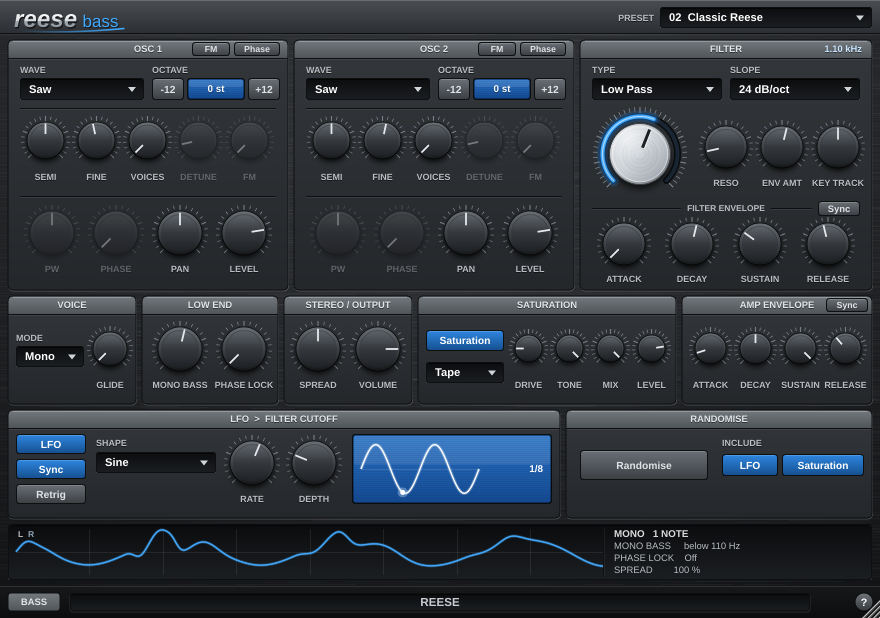
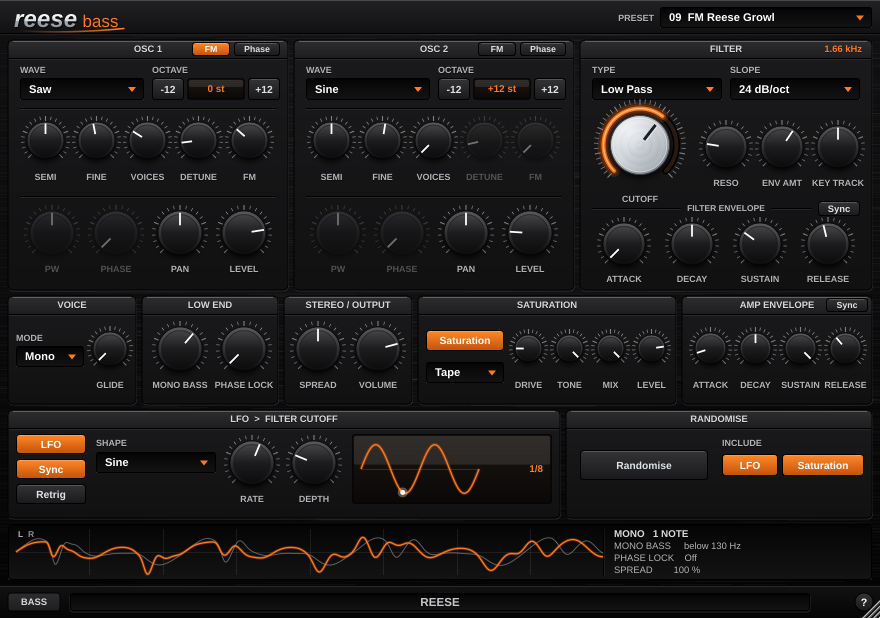
Restyle the GUI with the LeadVerb colour theme (black + orange)
Colours only; layout, sizes, fonts, controls, parameters and DSP are
unchanged and everything stays procedurally drawn.
- One palette in VirusColours (LeadVerb values): blue / blueGlow
  replaced by accent / accentGlow / accentLight, plus named fixed shades
  (button, popup, tooltip, window, top strip, bottom bar).
- Every hard-coded colour in the drawing code uses a palette name,
  except the chrome wordmark and chrome dial, which stay as they were.
- Orange lit buttons, combo arrows, knob value arcs and hover values;
  black small knobs with white indicators; black-glass LCDs with light
  grey names and orange values; orange LFO trace and scope (R in grey).

Claude-Session: https://claude.ai/code/session_01HY2UoEgoNZWNEqy4P7RUM3

diff --git a/Source/UI/CustomLookAndFeel.cpp b/Source/UI/CustomLookAndFeel.cpp
@@ -9,17 +9,17 @@ CustomLookAndFeel::CustomLookAndFeel()
     setColour (ComboBox::textColourId,                  Colours::white);
     setColour (ComboBox::backgroundColourId,            VirusColours::insetBottom);
     setColour (ComboBox::outlineColourId,               VirusColours::bevelDark);
-    setColour (ComboBox::arrowColourId,                 Colour (0xffd0d4d8));
-    setColour (PopupMenu::backgroundColourId,           Colour (0xff1b1e21));
-    setColour (PopupMenu::textColourId,                 Colour (0xffe8ebee));
-    setColour (PopupMenu::highlightedBackgroundColourId, Colour (0xff2a6fb8));
+    setColour (ComboBox::arrowColourId,                 VirusColours::accent);
+    setColour (PopupMenu::backgroundColourId,           VirusColours::popupBackground);
+    setColour (PopupMenu::textColourId,                 VirusColours::popupText);
+    setColour (PopupMenu::highlightedBackgroundColourId, VirusColours::popupHighlight);
     setColour (PopupMenu::highlightedTextColourId,      Colours::white);
     setColour (PopupMenu::headerTextColourId,           VirusColours::labelText);
-    setColour (TextButton::textColourOffId,             Colour (0xffdfe3e6));
+    setColour (TextButton::textColourOffId,             VirusColours::lightText);
     setColour (TextButton::textColourOnId,              Colours::white);
     setColour (TooltipWindow::textColourId,             Colours::white);
-    setColour (TooltipWindow::backgroundColourId,       Colour (0xf0163f78));
-    setColour (TooltipWindow::outlineColourId,          VirusColours::blue);
+    setColour (TooltipWindow::backgroundColourId,       VirusColours::tooltipBackground);
+    setColour (TooltipWindow::outlineColourId,          VirusColours::accent);
 }
 
 Font CustomLookAndFeel::uiFont (float height, bool bold)
@@ -64,16 +64,16 @@ void CustomLookAndFeel::drawLargeKnob (Graphics& g, Rectangle<float> area, float
     const float angle = start + pos * (end - start);
 
     // Fine tick marks around the outside
-    drawTicks (g, c, R - 4.5f, R, start, end, 41, Colour (0xff9aa1a8).withAlpha (0.75f), 0.8f);
+    drawTicks (g, c, R - 4.5f, R, start, end, 41, VirusColours::lightGrey.withAlpha (0.6f), 0.8f);
 
-    // Blue arc ring: dark recessed track, glow and bright value arc
+    // Orange arc ring: dark recessed track, glow and bright value arc
     const float ringR = R - 9.5f;
     {
         Path track;
         track.addCentredArc (c.x, c.y, ringR, ringR, 0.0f, start, end, true);
-        g.setColour (Colour (0xff0a0c0e));
+        g.setColour (Colours::black);
         g.strokePath (track, PathStrokeType (7.0f, PathStrokeType::curved, PathStrokeType::rounded));
-        g.setColour (Colour (0xff1a2633));
+        g.setColour (VirusColours::arcTrack);
         g.strokePath (track, PathStrokeType (4.0f, PathStrokeType::curved, PathStrokeType::rounded));
 
         const float arcFrom = bipolar ? (start + end) * 0.5f : start;
@@ -81,13 +81,13 @@ void CustomLookAndFeel::drawLargeKnob (Graphics& g, Rectangle<float> area, float
         {
             Path value;
             value.addCentredArc (c.x, c.y, ringR, ringR, 0.0f, jmin (arcFrom, angle), jmax (arcFrom, angle), true);
-            g.setColour (VirusColours::blueGlow.withAlpha (0.18f));
+            g.setColour (VirusColours::accentGlow.withAlpha (0.18f));
             g.strokePath (value, PathStrokeType (12.0f, PathStrokeType::curved, PathStrokeType::rounded));
-            g.setColour (VirusColours::blueGlow.withAlpha (0.35f));
+            g.setColour (VirusColours::accentGlow.withAlpha (0.35f));
             g.strokePath (value, PathStrokeType (7.5f, PathStrokeType::curved, PathStrokeType::rounded));
-            g.setColour (VirusColours::blue);
+            g.setColour (VirusColours::accent);
             g.strokePath (value, PathStrokeType (4.0f, PathStrokeType::curved, PathStrokeType::rounded));
-            g.setColour (Colour (0xffc9e6ff).withAlpha (0.8f));
+            g.setColour (VirusColours::accentLight.withAlpha (0.8f));
             g.strokePath (value, PathStrokeType (1.2f, PathStrokeType::curved, PathStrokeType::rounded));
         }
     }
@@ -150,7 +150,7 @@ void CustomLookAndFeel::drawSmallKnob (Graphics& g, Rectangle<float> area, float
     const float R = size * 0.5f - 1.0f;
     const float angle = start + pos * (end - start);
 
-    drawTicks (g, c, R - 3.5f, R, start, end, 21, Colour (0xff8d949b).withAlpha (0.8f), 0.8f);
+    drawTicks (g, c, R - 3.5f, R, start, end, 21, VirusColours::lightGrey.withAlpha (0.6f), 0.8f);
 
     const float bodyR = R - 6.0f;
     const auto body = Rectangle<float> (bodyR * 2.0f, bodyR * 2.0f).withCentre (c);
@@ -160,14 +160,14 @@ void CustomLookAndFeel::drawSmallKnob (Graphics& g, Rectangle<float> area, float
     DropShadow (Colours::black.withAlpha (0.8f), 6, { 0, 3 }).drawForPath (g, bodyPath);
 
     // rim
-    g.setGradientFill (ColourGradient (Colour (0xff6a6f75), body.getX(), body.getY(),
-                                       Colour (0xff141618), body.getX(), body.getBottom(), false));
+    g.setGradientFill (ColourGradient (Colour (0xff5a5a5e), body.getX(), body.getY(),
+                                       Colour (0xff0a0a0b), body.getX(), body.getBottom(), false));
     g.fillEllipse (body);
 
     // rubberised cap
     const auto cap = body.reduced (bodyR * 0.14f);
-    ColourGradient capGrad (Colour (0xff4a4f55), cap.getCentreX(), cap.getY(),
-                            Colour (0xff1f2225), cap.getCentreX(), cap.getBottom(), false);
+    ColourGradient capGrad (Colour (0xff2c2c2f), cap.getCentreX(), cap.getY(),
+                            Colour (0xff0d0d0e), cap.getCentreX(), cap.getBottom(), false);
     g.setGradientFill (capGrad);
     g.fillEllipse (cap);
 
@@ -182,7 +182,7 @@ void CustomLookAndFeel::drawSmallKnob (Graphics& g, Rectangle<float> area, float
     // indicator line
     const float s = std::sin (angle), co = -std::cos (angle);
     const float p0 = bodyR * 0.35f, p1 = bodyR * 0.92f;
-    g.setColour (Colour (0xffe6e9ec));
+    g.setColour (Colours::white);
     g.drawLine (c.x + s * p0, c.y + co * p0, c.x + s * p1, c.y + co * p1, 1.8f);
 }
 
@@ -209,7 +209,7 @@ void CustomLookAndFeel::drawComboBox (Graphics& g, int width, int height, bool,
 
     if (box.hasKeyboardFocus (false) || box.isPopupActive())
     {
-        g.setColour (VirusColours::blue.withAlpha (0.45f));
+        g.setColour (VirusColours::accent.withAlpha (0.45f));
         g.drawRoundedRectangle (b.reduced (1.0f), 3.0f, 1.0f);
     }
 
@@ -234,7 +234,7 @@ void CustomLookAndFeel::positionComboBoxText (ComboBox& box, Label& label)
 void CustomLookAndFeel::drawPopupMenuBackground (Graphics& g, int width, int height)
 {
     g.fillAll (findColour (PopupMenu::backgroundColourId));
-    g.setColour (VirusColours::blue.withAlpha (0.35f));
+    g.setColour (VirusColours::accent.withAlpha (0.35f));
     g.drawRect (0, 0, width, height, 1);
 }
 
@@ -245,8 +245,8 @@ void CustomLookAndFeel::drawButtonBackground (Graphics& g, Button& button, const
     auto b = button.getLocalBounds().toFloat().reduced (0.5f);
     const bool on = button.getToggleState();
 
-    Colour top = on ? Colour (0xff2f86e0) : Colour (0xff6b7076);
-    Colour bottom = on ? Colour (0xff15508f) : Colour (0xff3c4045);
+    Colour top = on ? VirusColours::buttonOnTop : VirusColours::buttonOffTop;
+    Colour bottom = on ? VirusColours::buttonOnBottom : VirusColours::buttonOffBottom;
     if (isHighlighted) { top = top.brighter (0.12f); bottom = bottom.brighter (0.12f); }
     if (isDown)        std::swap (top, bottom);
 

diff --git a/Source/UI/VirusComponents.cpp b/Source/UI/VirusComponents.cpp
@@ -53,7 +53,7 @@ void VirusKnob::paint (Graphics& g)
     if ((hovering || dragging) && isEnabled())
     {
         g.setFont (CustomLookAndFeel::uiFont (11.0f, true));
-        g.setColour (VirusColours::blue);
+        g.setColour (VirusColours::accent);
         g.drawFittedText (getValueText(), labelArea.toNearestInt(), Justification::centred, 1, 0.7f);
     }
     else
@@ -219,7 +219,8 @@ void LcdDisplay::paint (Graphics& g)
     auto b = getLocalBounds().toFloat().reduced (1.0f);
     CustomLookAndFeel::drawLcd (g, b, dimmed);
 
-    const auto textColour = dimmed ? Colour (0xff8a9097) : Colours::white;
+    const auto nameColour  = dimmed ? VirusColours::dimText : VirusColours::lightGrey;
+    const auto valueColour = dimmed ? VirusColours::dimText : VirusColours::accent;
     auto textArea = b.reduced (6.0f, 0.0f);
     const auto just = nameText.isEmpty() ? Justification::centred : Justification::centredRight;
 
@@ -227,8 +228,9 @@ void LcdDisplay::paint (Graphics& g)
     g.setColour (Colours::black.withAlpha (0.35f));
     g.drawText (nameText, textArea.translated (0.0f, 1.0f), Justification::centredLeft);
     g.drawText (valueText, textArea.translated (0.0f, 1.0f), just);
-    g.setColour (textColour);
+    g.setColour (nameColour);
     g.drawText (nameText, textArea, Justification::centredLeft);
+    g.setColour (valueColour);
     g.drawText (valueText, textArea, just);
 }
 
@@ -289,24 +291,23 @@ void LfoDisplay::paint (Graphics& g)
         if (i == 0) wave.startNewSubPath (x, y);
         else        wave.lineTo (x, y);
     }
-    const auto lineColour = on ? Colours::white : Colour (0xff9aa1a8);
-    g.setColour (lineColour.withAlpha (0.25f));
+    g.setColour ((on ? VirusColours::accentGlow : VirusColours::dimText).withAlpha (0.3f));
     g.strokePath (wave, PathStrokeType (3.5f));
-    g.setColour (lineColour);
+    g.setColour (on ? VirusColours::accent : VirusColours::dimText);
     g.strokePath (wave, PathStrokeType (1.4f));
 
     if (on)
     {
         const float px = plot.getX() + phase / (float) cycles * plot.getWidth();
         const float py = plot.getCentreY() - valueAt (phase) * amp;
-        g.setColour (Colour (0xffc9e6ff).withAlpha (0.35f));
+        g.setColour (VirusColours::accentLight.withAlpha (0.35f));
         g.fillEllipse (px - 5.0f, py - 5.0f, 10.0f, 10.0f);
         g.setColour (Colours::white);
         g.fillEllipse (px - 2.5f, py - 2.5f, 5.0f, 5.0f);
     }
 
     g.setFont (CustomLookAndFeel::uiFont (11.0f, true));
-    g.setColour (on ? Colours::white : Colour (0xff8a9097));
+    g.setColour (on ? VirusColours::accent : VirusColours::dimText);
     g.drawFittedText (on ? rateText : String ("OFF"), label.toNearestInt(), Justification::centredRight, 2, 0.8f);
 }
 
@@ -387,18 +388,18 @@ void ScopeDisplay::paint (Graphics& g)
     };
 
     const auto pr = trace (r), pl = trace (l);
-    g.setColour (Colour (0xffc9e6ff).withAlpha (0.45f));
+    g.setColour (VirusColours::lightGrey.withAlpha (0.45f));
     g.strokePath (pr, PathStrokeType (1.0f));
-    g.setColour (VirusColours::blue.withAlpha (0.35f));
+    g.setColour (VirusColours::accentGlow.withAlpha (0.35f));
     g.strokePath (pl, PathStrokeType (3.0f));
-    g.setColour (VirusColours::blue);
+    g.setColour (VirusColours::accent);
     g.strokePath (pl, PathStrokeType (1.3f));
 
     // labels
     g.setFont (CustomLookAndFeel::uiFont (9.5f, true));
     g.setColour (VirusColours::labelText);
     g.drawText ("L", plot.getX() + 2.0f, plot.getY(), 10.0f, 10.0f, Justification::centredLeft);
-    g.setColour (Colour (0xffc9e6ff).withAlpha (0.7f));
+    g.setColour (VirusColours::lightGrey.withAlpha (0.7f));
     g.drawText ("R", plot.getX() + 12.0f, plot.getY(), 10.0f, 10.0f, Justification::centredLeft);
 
     // summary text
@@ -425,8 +426,8 @@ void HelpButton::paintButton (Graphics& g, bool isHighlighted, bool isDown)
     auto b = getLocalBounds().toFloat().reduced (1.0f);
     g.setColour (Colours::black.withAlpha (0.6f));
     g.fillEllipse (b.translated (0.0f, 1.0f));
-    g.setGradientFill (ColourGradient (isHighlighted ? Colour (0xff8a9096) : Colour (0xff6f757b), 0.0f, b.getY(),
-                                       Colour (0xff35393d), 0.0f, b.getBottom(), false));
+    g.setGradientFill (ColourGradient (isHighlighted ? VirusColours::buttonOffTop.brighter (0.12f) : VirusColours::buttonOffTop, 0.0f, b.getY(),
+                                       VirusColours::buttonOffBottom, 0.0f, b.getBottom(), false));
     g.fillEllipse (isDown ? b.reduced (0.5f) : b);
     g.setColour (VirusColours::bevelDark);
     g.drawEllipse (b, 1.0f);
@@ -470,7 +471,7 @@ void HelpOverlay::paint (Graphics& g)
     g.setFont (CustomLookAndFeel::uiFont (11.5f));
     for (auto* line : lines)
     {
-        g.setColour (String (line).startsWith ("Click") ? VirusColours::blue : Colour (0xffdfe3e6));
+        g.setColour (String (line).startsWith ("Click") ? VirusColours::accent : VirusColours::lightText);
         g.drawFittedText (line, text.removeFromTop (21.0f).toNearestInt(), Justification::centredLeft, 1, 0.8f);
     }
 }

diff --git a/Source/PluginEditor.cpp b/Source/PluginEditor.cpp
@@ -400,7 +400,7 @@ void ReesePanel::createBackground()
     Graphics g (background);
     g.addTransform (AffineTransform::scale (2.0f));
 
-    g.setGradientFill (ColourGradient (Colour (0xff3b3e42), 0.0f, 0.0f, Colour (0xff1e2023), 0.0f, (float) kHeight, false));
+    g.setGradientFill (ColourGradient (VirusColours::windowTop, 0.0f, 0.0f, VirusColours::windowBottom, 0.0f, (float) kHeight, false));
     g.fillAll();
 
     // brushed metal: faint full-width lines plus random short streaks
@@ -426,7 +426,7 @@ void ReesePanel::createBackground()
 
 void ReesePanel::drawWordmark (Graphics& g, Rectangle<float> area)
 {
-    // Same family wordmark as Virus Delay: chrome first word, blue second word, swoosh.
+    // Same family wordmark as Virus Delay: chrome first word, orange second word, swoosh.
     const float baseline = area.getBottom() - 7.0f;
 
     GlyphArrangement main;
@@ -449,7 +449,7 @@ void ReesePanel::drawWordmark (Graphics& g, Rectangle<float> area)
     second.createPath (secondPath);
     g.setColour (Colours::black.withAlpha (0.5f));
     g.fillPath (secondPath, AffineTransform::translation (1.0f, 1.0f));
-    g.setColour (VirusColours::blue);
+    g.setColour (VirusColours::accent);
     g.fillPath (secondPath);
 
     Path swoosh;
@@ -457,7 +457,7 @@ void ReesePanel::drawWordmark (Graphics& g, Rectangle<float> area)
     const float ex = secondPath.getBounds().getRight();
     swoosh.startNewSubPath (sx, sy);
     swoosh.quadraticTo ((sx + ex) * 0.5f, sy + 3.5f, ex + 6.0f, sy - 2.0f);
-    g.setGradientFill (ColourGradient (VirusColours::blue.withAlpha (0.0f), sx, sy, VirusColours::blue, ex, sy, false));
+    g.setGradientFill (ColourGradient (VirusColours::accent.withAlpha (0.0f), sx, sy, VirusColours::accent, ex, sy, false));
     g.strokePath (swoosh, PathStrokeType (1.6f, PathStrokeType::curved, PathStrokeType::rounded));
 }
 
@@ -467,7 +467,7 @@ void ReesePanel::paint (Graphics& g)
 
     // --- top strip ----------------------------------------------------------------
     auto top = Rectangle<float> (0.0f, 0.0f, (float) kWidth, (float) kTopStripH);
-    g.setGradientFill (ColourGradient (Colour (0xff4a4e53), 0.0f, 0.0f, Colour (0xff2b2e32), 0.0f, top.getBottom(), false));
+    g.setGradientFill (ColourGradient (VirusColours::stripTop, 0.0f, 0.0f, VirusColours::stripBottom, 0.0f, top.getBottom(), false));
     g.fillRect (top);
     g.setColour (Colours::white.withAlpha (0.18f));
     g.drawHorizontalLine (0, 0.0f, (float) kWidth);
@@ -506,7 +506,7 @@ void ReesePanel::paint (Graphics& g)
         g.setFont (CustomLookAndFeel::uiFont (10.5f, true));
         g.setColour (Colours::black.withAlpha (0.45f));
         g.drawText (cutoffText, header.translated (0.0f, 1.0f), Justification::centredRight);
-        g.setColour (Colour (0xffc9e6ff));
+        g.setColour (VirusColours::accent);
         g.drawText (cutoffText, header, Justification::centredRight);
     }
     CustomLookAndFeel::drawSmallLabel (g, "Type", { 592.0f, 64.0f, 130.0f, 12.0f }, Justification::centredLeft);
@@ -536,7 +536,7 @@ void ReesePanel::paint (Graphics& g)
 
     // --- bottom bar -----------------------------------------------------------------
     auto bar = Rectangle<float> (0.0f, (float) kBottomBarY, (float) kWidth, (float) (kHeight - kBottomBarY));
-    g.setGradientFill (ColourGradient (Colour (0xff17191b), 0.0f, bar.getY(), Colour (0xff0c0d0e), 0.0f, bar.getBottom(), false));
+    g.setGradientFill (ColourGradient (VirusColours::barTop, 0.0f, bar.getY(), VirusColours::barBottom, 0.0f, bar.getBottom(), false));
     g.fillRect (bar);
     g.setColour (Colours::white.withAlpha (0.1f));
     g.drawHorizontalLine (kBottomBarY, 0.0f, (float) kWidth);
@@ -553,7 +553,7 @@ void ReesePanel::paint (Graphics& g)
     auto inset = bar.reduced (70.0f, 7.0f);
     CustomLookAndFeel::drawInsetBox (g, inset, 3.0f);
     g.setFont (CustomLookAndFeel::uiFont (13.0f, true));
-    g.setColour (Colour (0xffc8cdd2));
+    g.setColour (VirusColours::lightGrey);
     g.drawText ("REESE", inset, Justification::centred);
 }
 

diff --git a/Source/UI/CustomLookAndFeel.h b/Source/UI/CustomLookAndFeel.h
@@ -5,24 +5,46 @@
 //==============================================================================
 namespace VirusColours
 {
-    const juce::Colour background   { 0xff2a2d31 };
-    const juce::Colour panelTop     { 0xff34373b };
-    const juce::Colour panelBottom  { 0xff25282b };
-    const juce::Colour headerTop    { 0xff74797f };
-    const juce::Colour headerBottom { 0xff50555a };
-    const juce::Colour headerText   { 0xffe3e6e8 };
-    const juce::Colour labelText    { 0xffb9bec3 };
-    const juce::Colour bevelDark    { 0xff0e0f11 };
-    const juce::Colour bevelLight   { 0x33ffffff };
-    const juce::Colour insetTop     { 0xff0b0c0e };
-    const juce::Colour insetBottom  { 0xff1c1f22 };
-    const juce::Colour lcdTop       { 0xff2a74c9 };
-    const juce::Colour lcdBottom    { 0xff144a92 };
-    const juce::Colour lcdDimTop    { 0xff40464d };
-    const juce::Colour lcdDimBottom { 0xff2b3035 };
-    const juce::Colour blue         { 0xff3fa9ff };
-    const juce::Colour blueGlow     { 0xff1f7fe0 };
-    const juce::Colour red          { 0xffff3b30 };
+    // black, with orange as the only accent, light grey for text and labels, white for highlights
+    const juce::Colour background   { 0xff0e0e0f };
+    const juce::Colour panelTop     { 0xff1b1b1d };
+    const juce::Colour panelBottom  { 0xff111112 };
+    const juce::Colour headerTop    { 0xff2e2e31 };
+    const juce::Colour headerBottom { 0xff1e1e20 };
+    const juce::Colour headerText   { 0xffd9d9db };
+    const juce::Colour labelText    { 0xffb4b4b8 };
+    const juce::Colour lightGrey    { 0xffc8c8cc };
+    const juce::Colour bevelDark    { 0xff000000 };
+    const juce::Colour bevelLight   { 0x22ffffff };
+    const juce::Colour insetTop     { 0xff050505 };
+    const juce::Colour insetBottom  { 0xff141415 };
+    const juce::Colour lcdTop       { 0xff1c1714 };
+    const juce::Colour lcdBottom    { 0xff0b0908 };
+    const juce::Colour lcdDimTop    { 0xff171718 };
+    const juce::Colour lcdDimBottom { 0xff0c0c0d };
+    const juce::Colour accent       { 0xffff7a1a };   // orange
+    const juce::Colour accentGlow   { 0xffe8600c };
+    const juce::Colour accentLight  { 0xffffd2a8 };
+    const juce::Colour red          { 0xffff3b30 };   // warnings / clip only
+
+    // fixed shades
+    const juce::Colour buttonOnTop    { 0xffff8a2a };   // orange gradient (lit buttons, meters)
+    const juce::Colour buttonOnBottom { 0xffc4520a };
+    const juce::Colour buttonOffTop   { 0xff343437 };
+    const juce::Colour buttonOffBottom{ 0xff1a1a1c };
+    const juce::Colour popupBackground{ 0xff121213 };
+    const juce::Colour tooltipBackground { 0xf0121213 };
+    const juce::Colour popupHighlight { 0xffc4520a };
+    const juce::Colour lightText      { 0xffdfe3e6 };   // button text (off), help text
+    const juce::Colour popupText      { 0xffe8ebee };
+    const juce::Colour dimText        { 0xff6e6e72 };   // dimmed LCD text
+    const juce::Colour arcTrack       { 0xff2a1a10 };   // recessed track under the orange arc
+    const juce::Colour windowTop      { 0xff1a1a1c };   // window background gradient
+    const juce::Colour windowBottom   { 0xff070708 };
+    const juce::Colour stripTop       { 0xff222224 };   // top strip
+    const juce::Colour stripBottom    { 0xff111112 };
+    const juce::Colour barTop         { 0xff121213 };   // bottom bar
+    const juce::Colour barBottom      { 0xff050505 };
 }
 
 //==============================================================================

diff --git a/Source/UI/VirusComponents.h b/Source/UI/VirusComponents.h
@@ -71,7 +71,7 @@ private:
 };
 
 //==============================================================================
-/** Blue LCD readout, e.g. "CUTOFF   1.20 kHz". */
+/** Black-glass LCD readout: name in light grey, value in orange, e.g. "CUTOFF   1.20 kHz". */
 class LcdDisplay : public juce::Component,
                    public juce::SettableTooltipClient
 {
@@ -86,7 +86,7 @@ private:
 };
 
 //==============================================================================
-/** LFO waveform on a blue LCD, with a dot at the current phase (dimmed when the LFO is off). */
+/** LFO waveform (orange) on a black-glass LCD, with a dot at the current phase (dimmed when the LFO is off). */
 class LfoDisplay : public juce::Component
 {
 public:

diff --git a/README.md b/README.md
@@ -1,6 +1,6 @@
 # Reese
 
-A Reese bass instrument (VST3, Windows x64) in the Virus Delay family look. It has two detunable
+A Reese bass instrument (VST3, Windows x64) in the Virus Delay family layout, with the LeadVerb colour theme (black, orange accent). It has two detunable
 oscillators with unison, controls to keep the low end mono and in phase, an analog-style multimode
 filter, and the KickDrum saturation.
 
